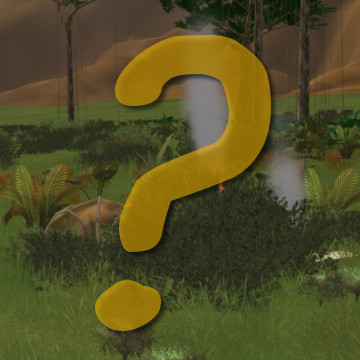
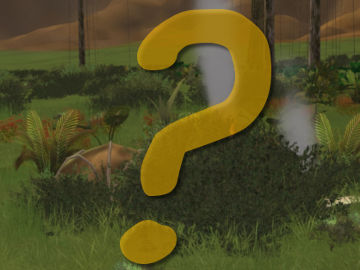
Creature image now 4:3 ratio (360x270) - Added pictures for a few Corellian critters

diff --git a/style.css b/style.css
@@ -241,7 +241,7 @@ input[type=submit]{
 .hambar{
 	height: 64px;
 	width: 352px;
-	top: 448px;
+	top: 370px;
 	margin: 4px 0px 4px 8px;
 	padding: 4px 0px 0px 8px;
 	text-align: left;
